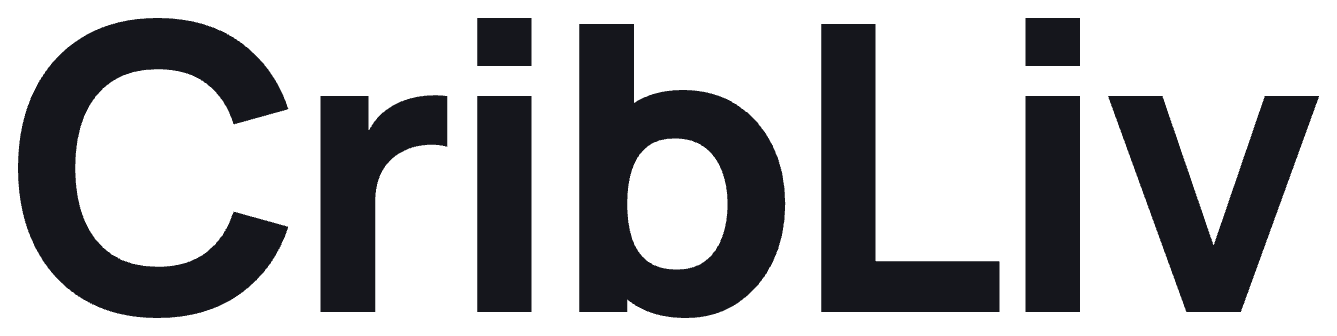
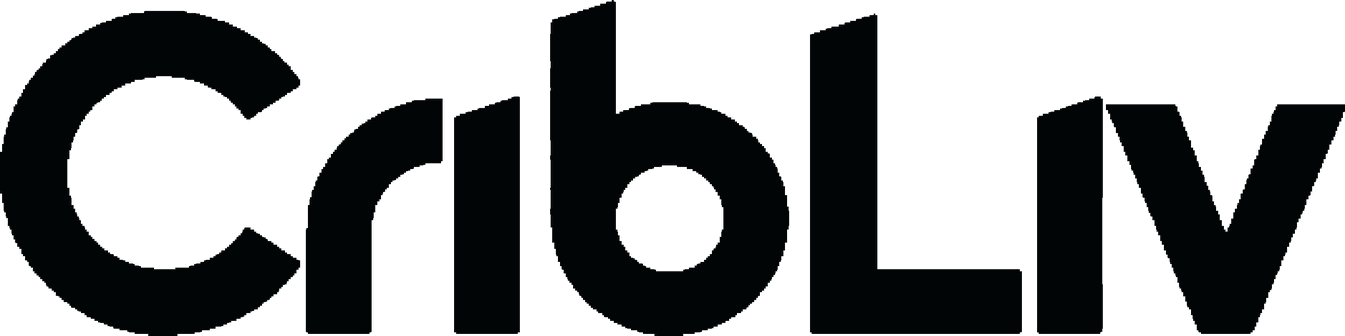
feat(web): new wordmark art + lockup proportions derived from master artwork
Replaces the wordmark PNG with the designer's current letterforms (angled
cuts on the i/L/v) and fixes the mark:wordmark alignment across every
surface that renders the lockup.

The alignment drift was CSS, not art. Measuring the master lockups
(cribliv-lockup-horizontal-color and -stacked-color, which agree to 0.4%)
gives the intended geometry, and none of the three values matched:

                    master     was          now
  wordmark height   0.806x     0.53x        0.806x
  gap               0.189x     0.40x        0.189x
  vertical offset   0          +2px nudge   0

So the header was rendering the wordmark at about two-thirds its intended
size, spacing it too far from the mark, and pushing it 2px low. The map
top bar had the same drift (0.536 ratio).

Six competing override blocks are collapsed into one knob,
--brand-mark-size; height and gap are now calc()'d from it, so a variant
sets one value and the ratio cannot drift again.

Asset: cropped to glyphs, 2599 -> 1345px wide, designer's ink (#020505)
preserved, alpha quantised to 32 levels — 18.7 KB.

The house mark is deliberately left as the existing SVG rather than the
delivered PNG: verified same artwork (0.69% silhouette difference, i.e.
antialiasing; identical window-cutout centre), and vector at 1.2 KB beats
a 419px raster.

Verified live on the header, auth page and map bar: ratio 0.806, gap ratio
0.1888, centre delta 0, transform none. Small phones keep the previous
[…]

diff --git a/apps/web/app/globals.css b/apps/web/app/globals.css
@@ -439,23 +439,26 @@ h4,
   flex-shrink: 0;
 }
 
+/* Lockup geometry is derived from a single knob, --brand-mark-size (the mark's
+   rendered height), using the ratios measured off the master artwork
+   (cribliv-lockup-horizontal-color / -stacked-color, which agree to 0.4%):
+     wordmark height = 0.806x the mark
+     gap             = 0.189x the mark
+     vertical offset = 0 — the two are optically centred as-is, no nudge
+   Sizing a variant therefore means setting --brand-mark-size and nothing else;
+   the wordmark and gap follow automatically and stay on-spec at every size. */
 .logo-img {
-  height: 30px;
+  height: var(--brand-mark-size, 30px);
   width: auto;
   display: block;
   object-fit: contain;
 }
 
 .logo-font {
-  height: 16px;
+  height: calc(var(--brand-mark-size, 30px) * 0.806);
   width: auto;
   display: block;
   object-fit: contain;
-  margin-left: var(--space-1);
-  /* Optical alignment: the mark's visual focal point (window cutout) sits
-     slightly below its bounding-box center, so the wordmark is nudged down
-     to match rather than aligning both boxes' raw geometric centers. */
-  transform: translateY(2px);
 }
 
 .logo-wordmark {
@@ -760,8 +763,11 @@ h4,
   .nav-actions {
     gap: 6px;
   }
-  .header .brand-lockup--md .logo-font {
-    height: 16px;
+  /* Scale the whole lockup down rather than squashing the wordmark alone, so
+     the mark:wordmark ratio holds. At 24px the lockup measures ~106px wide —
+     the same footprint the old 30/16 pairing occupied here. */
+  .header .brand-lockup--md {
+    --brand-mark-size: 24px;
   }
   .profile-pill {
     gap: 6px;
@@ -7131,32 +7137,23 @@ a.feature-card:hover .icon-circle {
   justify-content: center;
   margin-bottom: clamp(20px, 3vw, 28px);
 }
-/* BrandLockup — wraps the legacy .logo-img / .logo-font classes so their
-   height-based sizing is preserved. Variants only override the height. */
+/* BrandLockup — composes .logo-img / .logo-font. Both, plus the gap, derive
+   from --brand-mark-size, so a variant only ever sets that one value. */
 .brand-lockup {
   display: inline-flex;
   align-items: center;
-  gap: var(--space-2);
+  gap: calc(var(--brand-mark-size, 30px) * 0.189);
   flex-shrink: 0;
 }
-.brand-lockup--sm .logo-img {
-  height: 20px;
+/* Variants set the mark height only — see the ratio note on .logo-img above. */
+.brand-lockup--sm {
+  --brand-mark-size: 20px;
 }
-.brand-lockup--sm .logo-font {
-  height: 11px;
-  margin-left: 4px;
+.brand-lockup--md {
+  --brand-mark-size: 30px;
 }
-/* md = default: inherits global .logo-img/.logo-font (30 / 22) */
 .brand-lockup--lg {
-  gap: 12px;
-}
-.brand-lockup--lg .logo-img {
-  height: 40px;
-}
-.brand-lockup--lg .logo-font {
-  height: 22px;
-  margin-left: 6px;
-  transform: translateY(3px);
+  --brand-mark-size: 40px;
 }
 
 /* Auth dark-portal glow — keeps the wordmark legible on dark canvas without
@@ -12214,9 +12211,12 @@ a.feature-card:hover .icon-circle {
    [icon] [Cribliv] │ MAP   — same cadence as Bloomberg Terminal, Apple TV+,
    Google Maps' editorial sub-brands. */
 .cmap-brand {
+  /* Same master-artwork ratios as .brand-lockup: wordmark 0.806x the mark,
+     gap 0.189x, no vertical nudge. See the note on .logo-img. */
+  --brand-mark-size: 24px;
   display: inline-flex;
   align-items: center;
-  gap: 8px;
+  gap: calc(var(--brand-mark-size) * 0.189);
   flex-shrink: 0;
   text-decoration: none;
   cursor: pointer;
@@ -12224,7 +12224,7 @@ a.feature-card:hover .icon-circle {
   line-height: 1;
 }
 .cmap-brand__icon {
-  height: 24px;
+  height: var(--brand-mark-size);
   width: auto;
   display: block;
   /* Subtle cobalt halo so the mark feels at home on the dark canvas. */
@@ -12232,16 +12232,12 @@ a.feature-card:hover .icon-circle {
   transition: filter 200ms ease;
 }
 .cmap-brand__wordmark {
-  height: 13px;
+  height: calc(var(--brand-mark-size) * 0.806);
   width: auto;
   display: block;
   /* The source PNG is dark-on-light; brighten for the dark map chrome. */
   filter: brightness(0) invert(1);
   opacity: 0.96;
-  /* Optical alignment: the mark's focal point sits below its box center,
-     so the wordmark is nudged down to match rather than centering both
-     boxes' raw geometric centers. */
-  transform: translateY(2px);
 }
 .cmap-brand__sep {
   width: 1px;
@@ -13428,11 +13424,8 @@ a.feature-card:hover .icon-circle {
     gap: var(--space-2);
   }
 
-  .cmap-brand__icon {
-    height: 20px;
-  }
-  .cmap-brand__wordmark {
-    height: 11px;
+  .cmap-brand {
+    --brand-mark-size: 20px;
   }
   .cmap-brand__sep {
     height: 12px;
@@ -19150,12 +19143,8 @@ a.feature-card:hover .icon-circle {
   background: rgba(255, 253, 250, 0.96);
 }
 
-.brand-lockup--md .logo-img {
-  height: 34px;
-}
-
-.brand-lockup--md .logo-font {
-  height: 18px;
+.brand-lockup--md {
+  --brand-mark-size: 34px;
 }
 
 .nav-tab,
@@ -19716,12 +19705,8 @@ a.feature-card:hover .icon-circle {
 }
 
 @media (max-width: 700px) {
-  .brand-lockup--md .logo-img {
-    height: 30px;
-  }
-
-  .brand-lockup--md .logo-font {
-    height: 16px;
+  .brand-lockup--md {
+    --brand-mark-size: 30px;
   }
 
   .hero--home-prototype {
@@ -19785,11 +19770,8 @@ a.feature-card:hover .icon-circle {
 }
 
 /* Homepage rollback: restore the lighter pre-rollout hero composition. */
-.brand-lockup--md .logo-img {
-  height: 30px;
-}
-.brand-lockup--md .logo-font {
-  height: 16px;
+.brand-lockup--md {
+  --brand-mark-size: 30px;
 }
 
 .hero--home-prototype {
@@ -20495,12 +20477,13 @@ a.feature-card:hover .icon-circle {
   padding: 0 var(--space-5);
 }
 
+.cmap-brand {
+  --brand-mark-size: 28px;
+}
 .cmap-brand__icon {
-  height: 28px;
   filter: drop-shadow(0 5px 12px rgba(0, 102, 255, 0.22));
 }
 .cmap-brand__wordmark {
-  height: 15px;
   filter: none;
   opacity: 1;
 }
